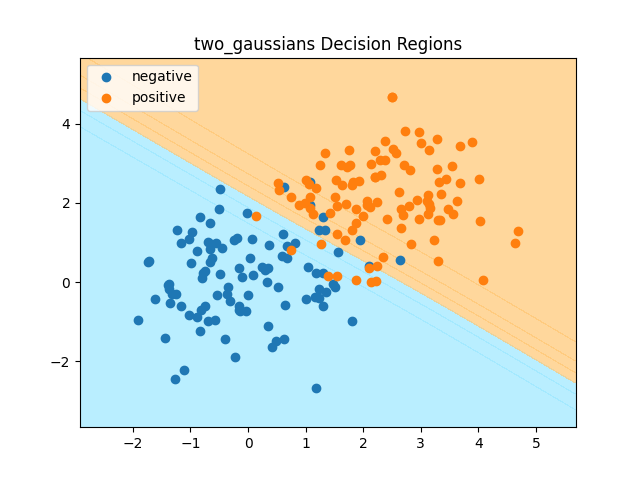
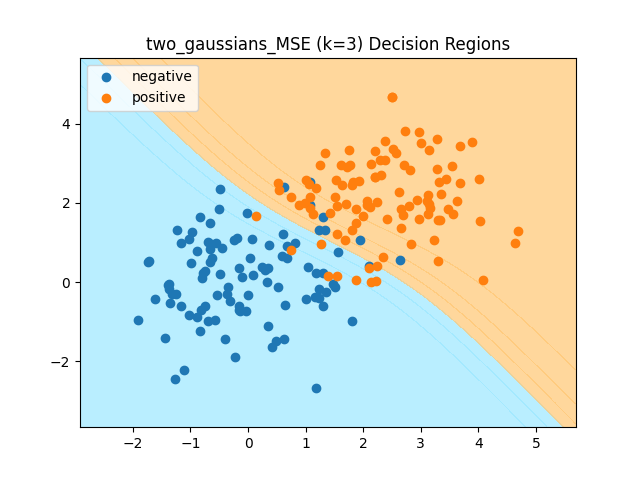
new plots

diff --git a/nn_evaluator.py b/nn_evaluator.py
@@ -271,7 +271,7 @@ def main():
     )
     datasets = ["xor", "center_surround", "spiral", "two_gaussians"]
     hidden_layer_sizes = [2, 3, 5, 7, 9]
-    losses = ["MSE", "MCE"]
+    losses = ["MSE"]  # , "MCE"]
     regularizers = ["", "norm", "orthogonal"]
     # After running and manually inspecting the results,
     # these are the best HPs for each dataset and loss function
@@ -306,8 +306,8 @@ def main():
                 )
                 print("======================================")
                 print(
-                    f"Best Hyperparams for {dataset}: 
-                        {best_hp} Reg={"None" if reg == '' else reg}"
+                    f'Best Hyperparams for {dataset}: ' +
+                    f'{best_hp} Reg={'None' if reg == '' else reg}'
                 )
                 print(f"Validation Accuracy: {valid_acc}")
                 print(f"Test Accuracy: {test_acc}")
@@ -315,6 +315,7 @@ def main():
                 # evaluator.plot_learning_curves(dataset, best_hp)
                 evaluator.plot_learned_decision_surfaces(dataset, loss_name)
     print(f"============ Finished training and evaluating models ============")
+
 
 if __name__ == '__main__':
     main()
